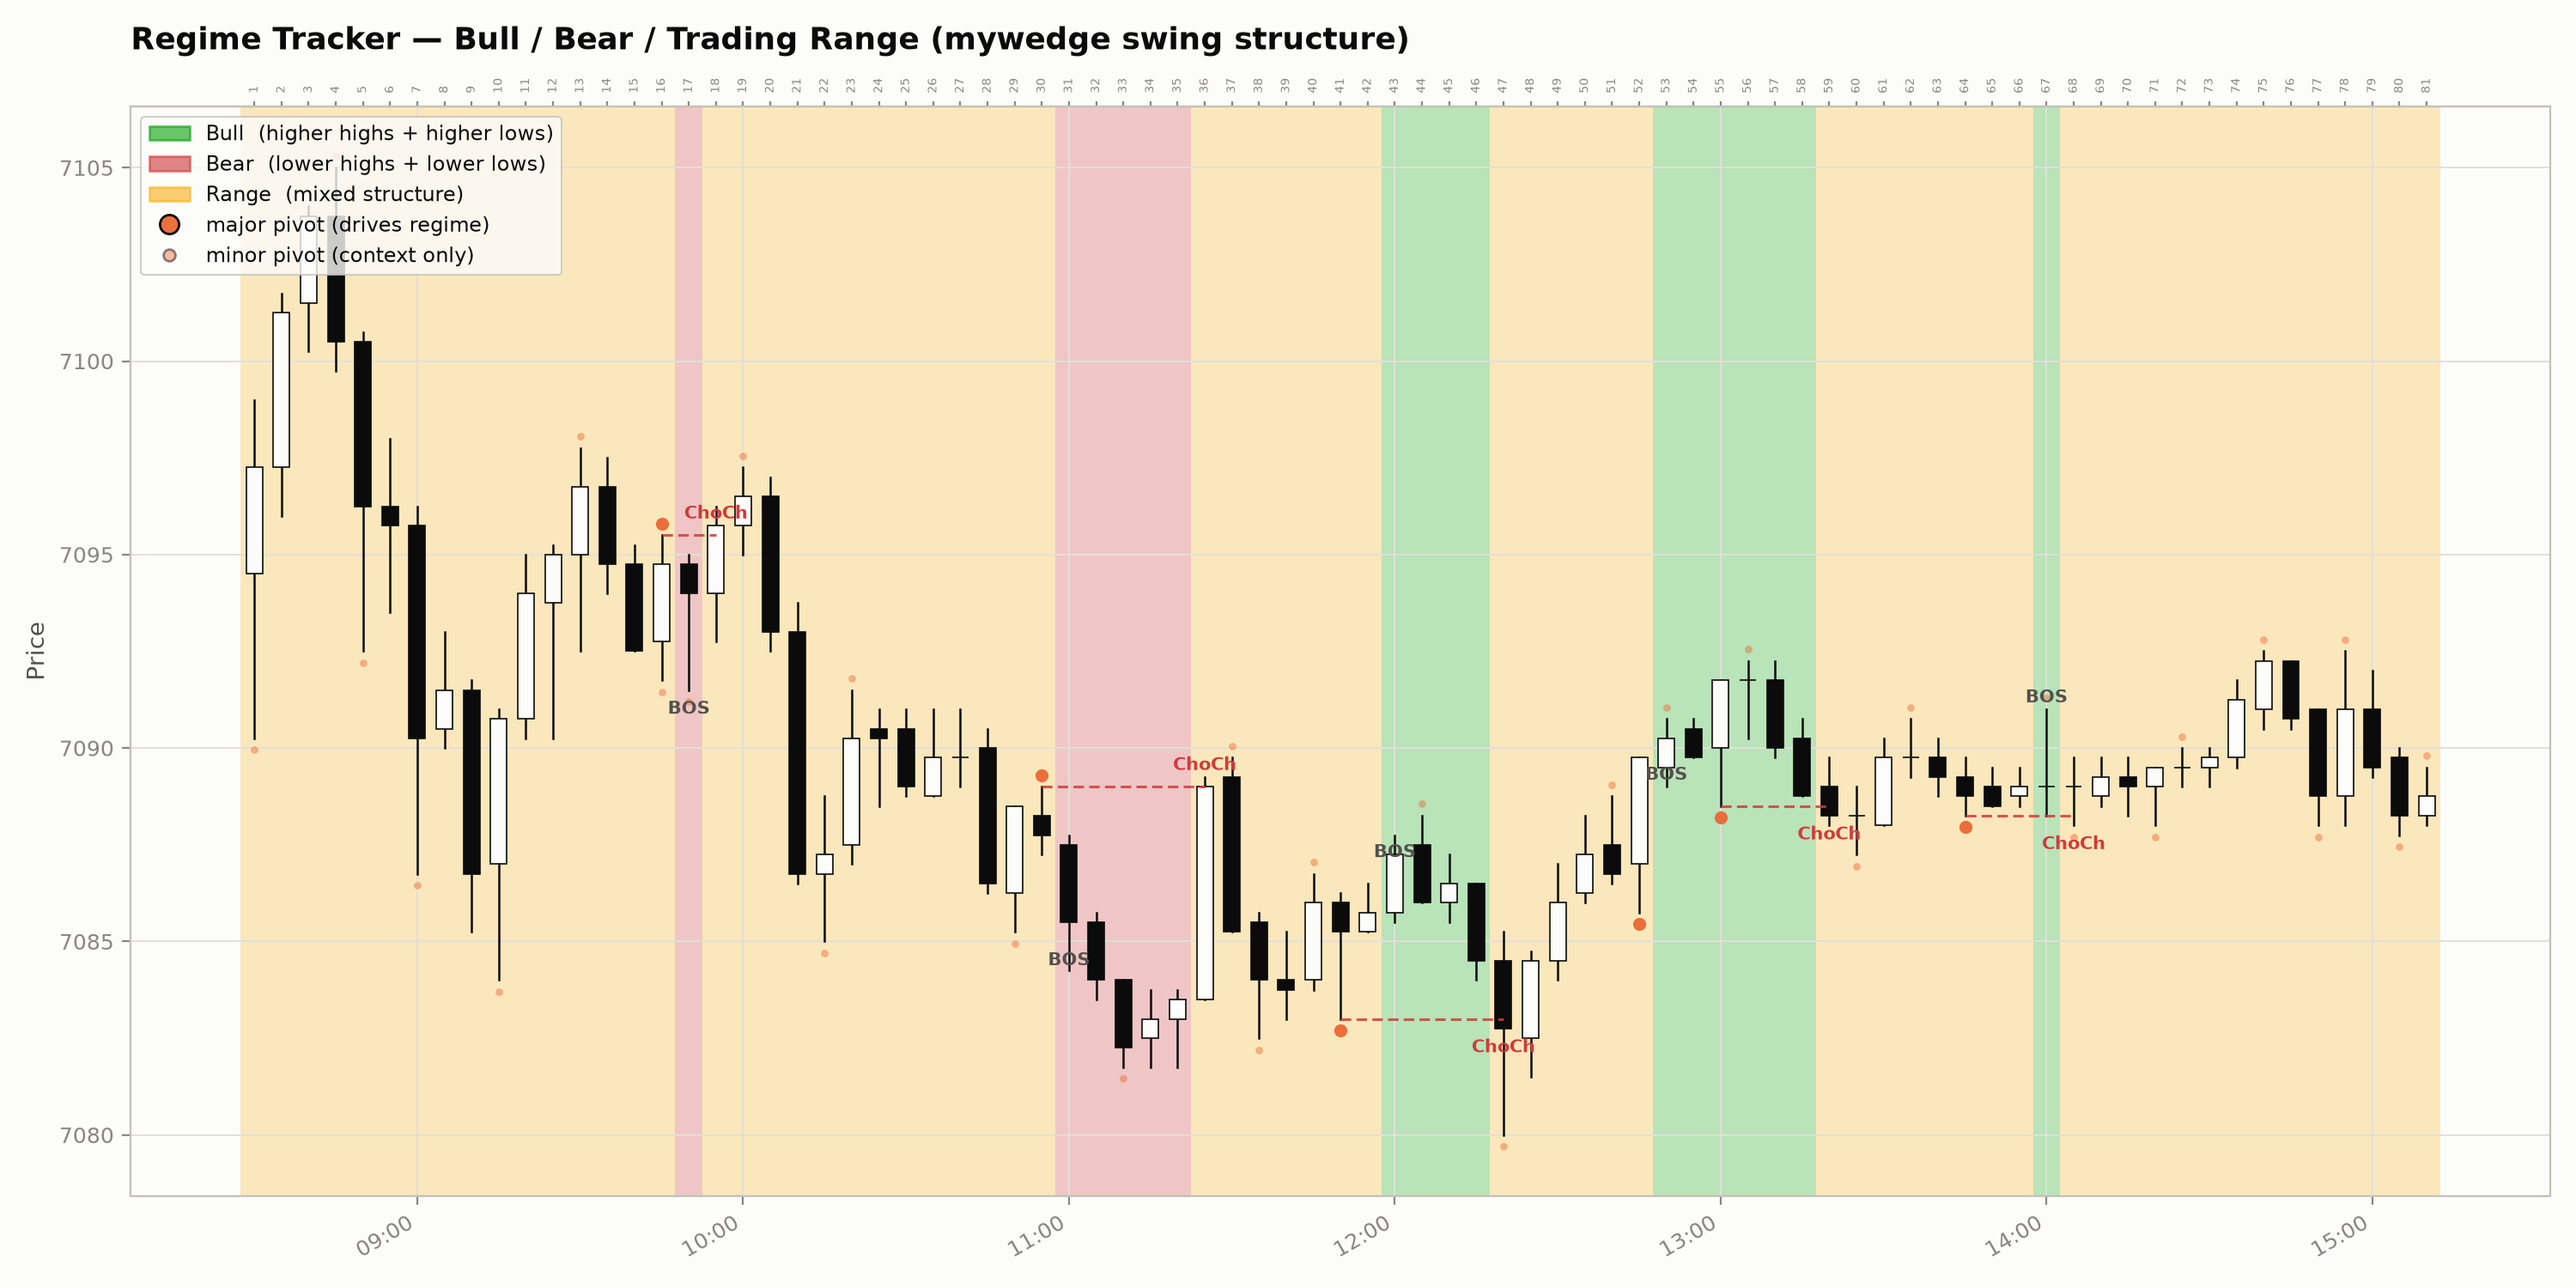
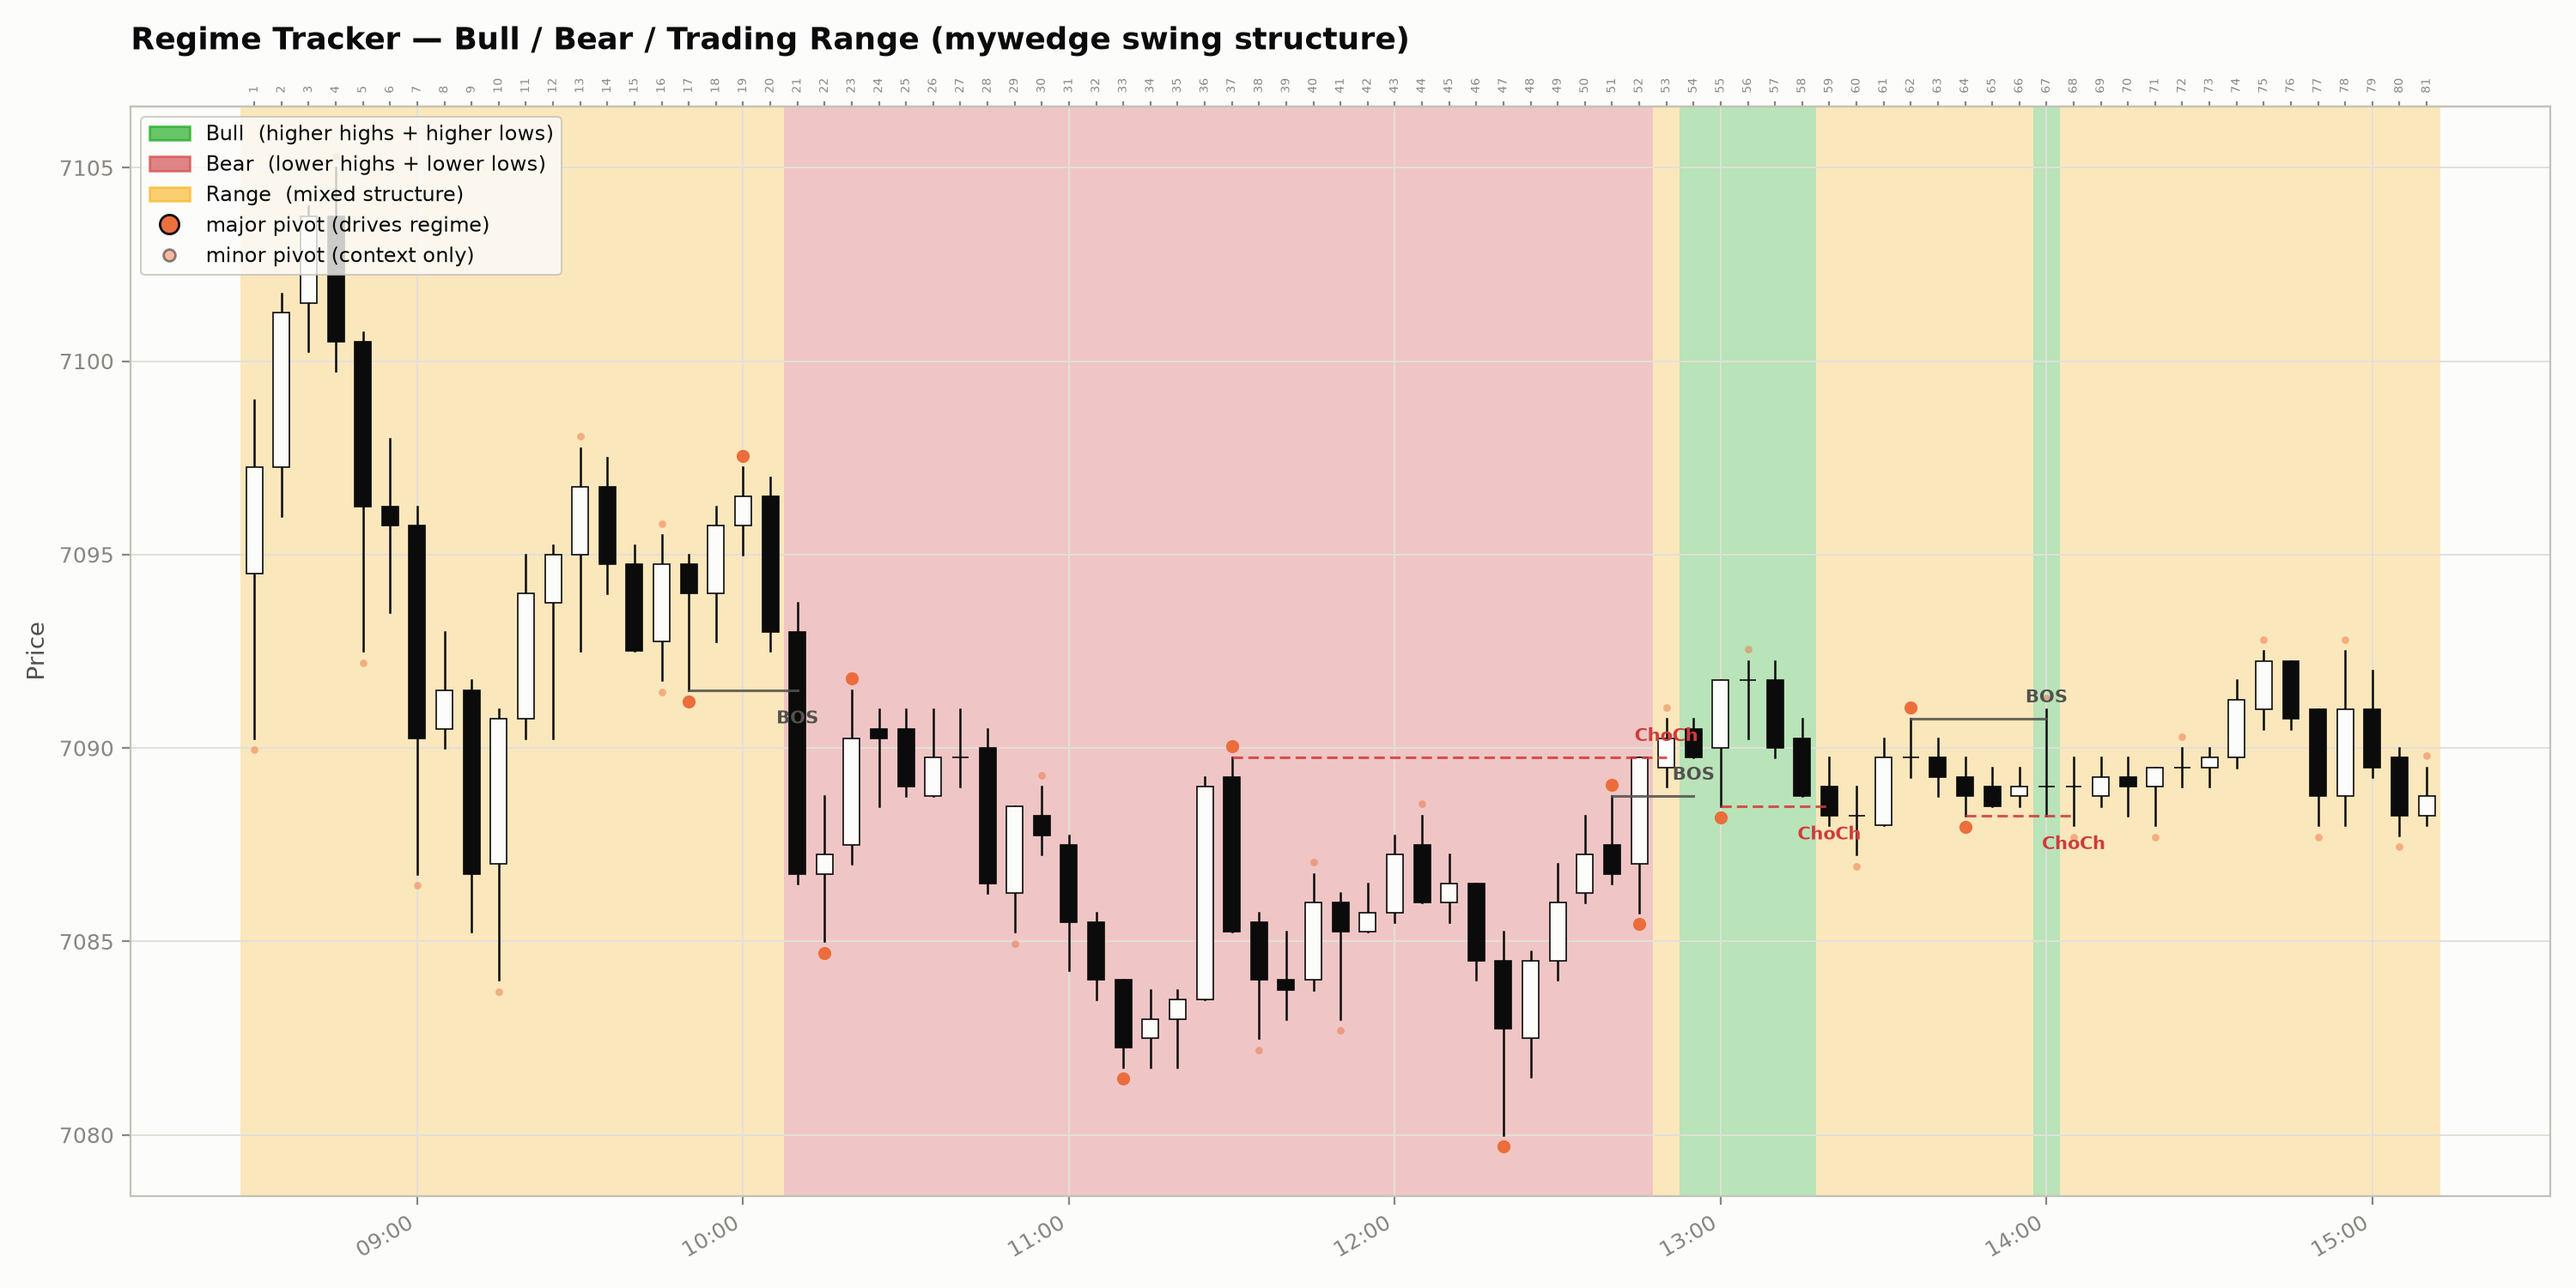
fix(regime-tracker): an outside bar is one swing unless it extends both ways
mywedge marks an outside bar as BOTH a swing high and a swing low, and the
zigzag recorded them as two separate swings. That splits a single pullback in
half, so a pullback ending HIGHER than the one before it gets compared against
its own other half and reads as a lower low, losing the setup.

Rule: if the bar extended the structure at both ends (ran past the last swing
of its own kind on each side) both swings stand; otherwise it collapses to the
extreme it left on, from bar_dir. Added as swings() + extends(); only
entry_setup() reads the collapsed sequence, so trend-internal logic is
untouched.

Validated against four hand-marked charts, all four satisfied at once:
- 02-13 b6 high fails vs b4 (6973.75) -> keeps its low -> Bull from b9, the
  case that prompted this (b3 low, b4 high, b6 higher low, b9 breaks b4).
- 12-26 b16 high fails vs b13 (7097.75) -> keeps its high -> one Bear b21-53
  instead of five flips; the old b17 Bear broke the low that is now gone.
- 05-19 b13 high fails -> keeps its low -> Bear from b16, not a 1-bar Bull.
- 05-21 b21 makes a new session low AND a high 0.75 over b18 -> both ends
  extend, both swings stand -> Bull still opens at b28.

The other eight sessions are byte-identical to bc4ec032. Two earlier attempts
are recorded in handoff.md so they are not retried.

Also adds the five 18-22 May sessions. The 01-13, 06-12 and 06-29 charts
re-render with byte differences despite unchanged data - they predate a
[…]

Changed region(s): [[0.248, 0.0613, 0.682, 0.9507]]

diff --git a/regime_tracker/regime_tracker.py b/regime_tracker/regime_tracker.py
@@ -109,6 +109,45 @@ def compute_regime(swing_low, swing_high, low, high, bar_dir=None):
             trend = new_trend
             res.change_points.append((i, new_trend))
 
+    def extends(out, kind, price):
+        """Does this extreme run past the last swing of its own kind?"""
+        for idx, k, p in reversed(out):
+            if k == kind:
+                return (price > p) if kind == "H" else (price < p)
+        return True                      # nothing to compare against yet
+
+    def swings():
+        """The swing sequence with outside-bar pairs collapsed.
+
+        mywedge marks an outside bar as BOTH a swing high and a swing low, and
+        `zz` records them as two separate swings. Structurally that is wrong:
+        one bar is one moment, and it cannot be the end of one leg and the start
+        of the next. Left in, the pair splits a single pullback into two -- so a
+        pullback that ends HIGHER than the one before it gets compared against
+        its own other half instead, and reads as a lower low.
+
+        Whether the bar counts as one swing or two turns on whether it EXTENDED
+        the structure at both ends -- ran past the last swing of its own kind on
+        each side.
+
+        Both ends extended: the bar really did make new ground in both
+        directions, so both swings stand. Only one end did (or neither): the bar
+        is one move with an overshoot attached, and it collapses to the extreme
+        it LEFT ON, taken from `bar_dir`. The other end never turned anything;
+        it just splits the pullback around it and inverts the slope test."""
+        out = []
+        for t, (idx, k, price) in enumerate(zz):
+            nxt = zz[t + 1] if t + 1 < len(zz) else None
+            pair = nxt is not None and nxt[0] == idx and nxt[1] != k
+            if pair and not (extends(out, k, price) and extends(out, *nxt[1:])):
+                continue                 # one-sided bar: its later extreme wins
+            if out and out[-1][1] == k:
+                if (price > out[-1][2]) if k == "H" else (price < out[-1][2]):
+                    out[-1] = (idx, k, price)
+            else:
+                out.append((idx, k, price))
+        return out
+
     def entry_setup(kind):
         """The range-exit setup, read the way the document's diagram draws it:
         1(H) 2(L) 3(H = lower high), and the BOS then breaks 2.
@@ -122,18 +161,19 @@ def compute_regime(swing_low, swing_high, low, high, bar_dir=None):
         Crucially the reference is the swing before the LH/HL, not whatever
         swing happened last. A minor pivot forming after it never broke the
         opposing structure, so it does not reset the setup."""
-        pos = [j for j, (_, k, _) in enumerate(zz) if k == kind]
+        seq = swings()
+        pos = [j for j, (_, k, _) in enumerate(seq) if k == kind]
         if len(pos) < 2 or pos[-1] == 0:
             return None
         j = pos[-1]
-        last_price, prev_price = zz[j][2], zz[pos[-2]][2]
+        last_price, prev_price = seq[j][2], seq[pos[-2]][2]
         sloped = last_price < prev_price if kind == "H" else last_price > prev_price
         if not sloped:
             return None
-        ref = zz[j - 1]
+        ref = seq[j - 1]
         if ref[1] == kind:               # not alternating -- nothing before it
             return None
-        return zz[j][0], last_price, ref[0], ref[2]
+        return seq[j][0], last_price, ref[0], ref[2]
 
     def push(i, kind, price):
         """Fold a pivot into the swing sequence. A same-kind pivot does not

diff --git a/docs/living/handoff.md b/docs/living/handoff.md
@@ -60,7 +60,35 @@ Effect across the committed baseline (`68277ec3`) — measured, not assumed:
   **none gained any**; several pullbacks are now correctly promoted to major. Those
   events were already filtered out of the charts, so the PNGs barely moved.
 
-**Sessions on disk:** 2025-12-26, 2026-01-13, 02-13, 04-06, 06-12, 06-25, 06-29.
+**Outside bars (fix 2026-09-22).** mywedge marks an outside bar as BOTH a swing high and
+a swing low, and the zigzag recorded them as two separate swings. That splits one pullback
+in two, so a pullback ending HIGHER than the one before it gets compared against its own
+other half and reads as a lower low -- the setup is lost.
+
+Rule now: if the bar EXTENDED the structure at both ends (ran past the last swing of its
+own kind on each side) both swings stand; otherwise it collapses to the extreme it LEFT ON,
+from `bar_dir`. Implemented as `swings()` + `extends()` in `regime_tracker.py`; only
+`entry_setup()` reads the collapsed sequence, so trend-internal logic is untouched.
+
+Validated against four hand-marked charts, all four agreeing at once:
+- 02-13 b6 high fails vs b4 (6973.75) -> bearish bar keeps its low -> **Bull from b9**
+  (b3 low, b4 high, b6 higher low, b9 breaks b4) -- the case that started this.
+- 12-26 b16 high fails vs b13 (7097.75) -> bullish bar keeps its high -> **one Bear b21-53**
+  in place of five flips; the old b17 Bear was a break of the low that is now gone.
+- 05-19 b13 high fails -> bearish bar keeps its low -> **Bear from b16**, not a 1-bar Bull
+  at b15. Afternoon Bear from b52 unaffected.
+- 05-21 b21 makes a new session low AND a high 0.75 over b18 -> both ends extend, both
+  swings stand -> **Bull still opens b28**. Keeping b21's low is what suppresses a
+  premature b23 signal.
+
+The other eight sessions on disk are byte-identical to `bc4ec032`. Two earlier attempts
+were tried and thrown away, both recorded here so they are not retried: (1) walking back to
+the prior opposing extreme with no bound -- gets b9 right but 05-19 loses its whole
+afternoon Bear and 06-12 becomes Bull from b17 to the close; (2) always keeping the extreme
+the bar left on -- gets b9/12-26/05-19 right but breaks 05-21 to b23.
+
+**Sessions on disk:** 2025-12-26, 2026-01-13, 02-13, 04-06, 05-18, 05-19, 05-20, 05-21, 05-22,
+06-12, 06-25, 06-29.
 
 **Known rough edge:** 04-06 flips Bull/Range/Bull across bars 37–43 in a 43-point daily
 shell. Rule-correct but close to noise at that compression — a minimum-leg filter is the
